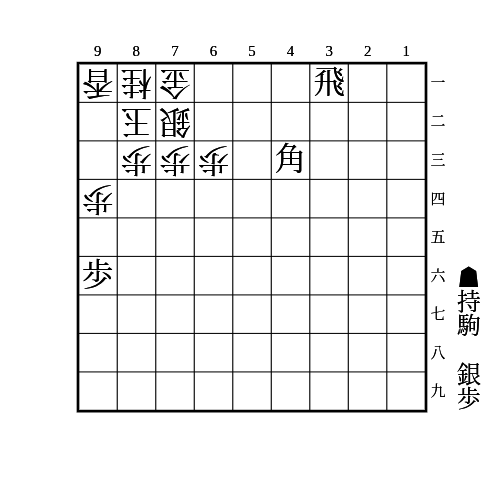
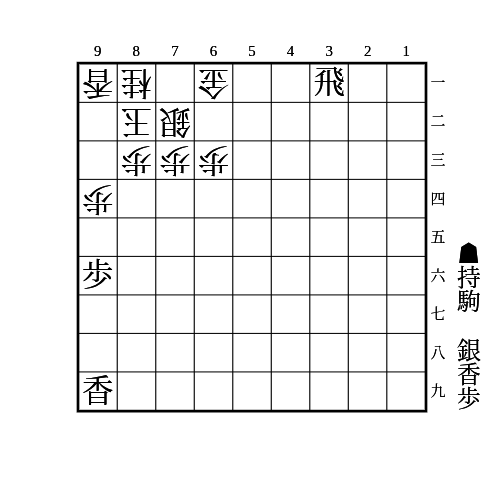
update

diff --git a/知識/攻め/寄せ/矢倉.md b/知識/攻め/寄せ/矢倉.md
@@ -112,3 +112,53 @@
     <p>▲31銀△11玉▲33歩</p>
     <p>2手目△同金は▲33金△11玉▲31銀不成</p>
 </details>
+
+---
+
+(7)
+
+![](./resources/矢倉_7.png)
+
+<details>
+    <summary>解答</summary>
+    <p>▲19香</p>
+    <p>△42銀と△24銀以外は詰む<br/>△24銀は▲同歩で詰めろ継続</p>
+</details>
+
+---
+
+(8)
+
+![](./resources/矢倉_8.png)
+
+<details>
+    <summary>解答</summary>
+    <p>▲31銀△12玉▲42銀成△22金▲32成銀</p>
+    <p>▲23飛成があるため銀が取れない</p>
+</details>
+
+---
+
+(9)
+
+(7)の派生
+
+![](./resources/矢倉_9.png)
+
+<details>
+    <summary>解答</summary>
+    <p>▲13歩△11歩▲19香</p>
+    <p>2手目△同桂は▲12歩△同玉▲14歩△22銀▲19香</p>
+    <p>初手▲14歩は△12歩▲19香△11香で受かるので注意</p>
+</details>
+
+---
+
+(10)
+
+![](./resources/矢倉_10.png)
+
+<details>
+    <summary>解答</summary>
+    <p>▲14歩△同歩▲12歩△同香▲11銀△同玉▲32飛成</p>
+</details>

diff --git a/知識/攻め/寄せ/美濃.md b/知識/攻め/寄せ/美濃.md
@@ -68,9 +68,7 @@
 
 <details>
     <summary>解答</summary>
-    <p>▲95歩</p>
-    <p>△同歩なら▲92歩△同香▲91銀△同玉▲71飛成</p>
-    <p>△61香などで横を受けてきたら▲53馬で71の金を狙い続ければ良い</p>
+    <p>▲95歩△同歩▲62香△71金▲92歩△同香▲91銀△71飛成</p>
 </details>
 
 ---
@@ -325,4 +323,27 @@
     <p>▲32飛成</p>
     <p>▲72竜△82合駒▲同竜△同玉▲71銀△92玉▲82金までの詰めろ</p>
     <p>△82金は▲71とで良い</p>
+</details>
+
+---
+
+(15)
+
+![](./resources/美濃_15.png)
+
+<details>
+    <summary>解答</summary>
+    <p>▲61飛成△同銀▲71角△82合駒▲95香△94歩▲同香△同玉▲82角成</p>
+    <p>桂がなくても玉を中段に出すことはできるが、あったほうが詰みまで見やすい</p>
+</details>
+
+---
+
+(16)
+
+![](./resources/美濃_16.png)
+
+<details>
+    <summary>解答</summary>
+    <p>▲41角〜▲86桂〜▲74桂</p>
 </details>

diff --git a/知識/攻め/必至/一般.md b/知識/攻め/必至/一般.md
@@ -149,7 +149,7 @@
 
 ▲32角成を防ぐために駒を足しても▲32金で詰む
 
-△同歩は▲23金△31玉▲32金
+桂を取ったら▲23金△31玉▲32金
 
 △14歩は▲同歩△同香▲12金△31玉▲32桂成
 
@@ -163,3 +163,26 @@
 
 25に歩があれば△24歩に▲同歩とできるので34が埋まっていなくても良い  
 その場合、△22玉は▲31角成△12玉▲22金△13玉▲32金△12玉▲22馬の即詰みになる
+
+## 金頭桂
+
+(1)
+
+![](./resources/金頭桂_1.png)
+
+<details>
+    <summary>解答</summary>
+    <p>▲25桂</p>
+    <p>△32金は▲13銀△21玉▲33桂不成△同金▲22金で詰み</p>
+    <p>相手が銀や角を持っているときは24に打たれると受かる</p>
+</details>
+
+## 退路封鎖
+
+![](./resources/退路封鎖_A.png)
+
+銀を取ったら▲32竜〜▲23金
+
+▲32銀は△12銀で受かる
+
+▲25銀や金は▲12金で受かる

diff --git a/知識/攻め/詰み筋/一般.md b/知識/攻め/詰み筋/一般.md
@@ -227,6 +227,21 @@
     <p>最長手順は歩頭桂でないが、▲12香に△同玉だと▲24桂と歩頭桂から詰む</p>
 </details>
 
+---
+
+(3)
+
+![](./resources/歩頭桂_3.png)
+
+<details>
+    <summary>解答</summary>
+    <p>▲93金</p>
+    <p>△同桂なら▲74桂△同歩▲73金△81玉▲72竜で詰み</p>
+    <p>△同香なら▲92金△同玉▲72竜△82金▲84桂△同歩▲83金△91玉▲82金で詰み</p>
+    <p>△同玉なら▲72竜で即詰みはないが▲85桂が受けにくい</p>
+    <p>一間竜と焦点の捨て駒も絡む</p>
+</details>
+
 ## 邪魔駒消去
 
 (1)

diff --git a/知識/攻防/詰めろ逃れの詰めろ.md b/知識/攻防/詰めろ逃れの詰めろ.md
@@ -12,3 +12,16 @@
     <p>敵の打ちたいところに打てで△25桂を消しつつ、▲23香成からの詰めろ<br/>△31桂とされても▲34金で良い</p>
     <p>▲25金は△48竜で負け</p>
 </details>
+
+---
+
+(2)
+
+![](./resources/詰めろ逃れの詰めろ_2.png)
+
+<details>
+    <summary>解答</summary>
+    <p>▲35角</p>
+    <p>敵の打ちたいところに打てで△35金を消しつつ、▲13銀からの詰めろ</p>
+    <p>△同歩ならこちらの詰めろが外れて▲32金の必至が間に合う</p>
+</details>

diff --git a/知識/攻め/寄せ/金無双.md b/知識/攻め/寄せ/金無双.md
@@ -223,3 +223,17 @@
     <p>△同玉なら▲71銀△92玉▲62銀成△同金▲82歩</p>
     <p>他の受けは桂を取れる</p>
 </details>
+
+---
+
+(11)
+
+![](./resources/金無双_11.png)
+
+<details>
+    <summary>解答</summary>
+    <p>▲33香</p>
+    <p>△同桂なら▲11竜<br/>次に▲21角からの詰めろ</p>
+    <p>△同玉なら▲21竜<br/>次に▲22角からの詰めろ</p>
+    <p>△同金なら▲41角〜▲52竜</p>
+</details>

diff --git a/大局観/指針.md b/大局観/指針.md
@@ -46,6 +46,9 @@
 戦力を分散させて局所的な数的有利を作らせないようにする。
 角を使うと広い戦場にしやすい。
 
+ただし上の指針のように、紛れを求めて複数箇所で駒をぶつけるのは有効なので注意。  
+その場合は持ち駒を使わないことで戦力を分散させないようにする。
+
 ---
 
 駒損しているときは攻める。  

diff --git a/知識/攻め/寄せ/舟囲い.md b/知識/攻め/寄せ/舟囲い.md
@@ -33,6 +33,7 @@
     <p>放置なら▲11角成〜▲21馬△同玉▲41飛成</p>
     <p>相手が角を持っている場合は△33角で受けられる</p>
     <p>角以外でも22に打ち込むのが有効</p>
+    <p>桂を持っている場合は▲24桂△同歩▲23角もある<br/>こちらは相手が角を持っていても使える</p>
 </details>
 
 

diff --git a/知識/定跡まわり/相振り飛車.md b/知識/定跡まわり/相振り飛車.md
@@ -23,3 +23,14 @@
     <p>△75飛</p>
     <p>▲86角なら△85飛</p>
 </details>
+
+---
+
+(3)
+
+![](./resources/相振り飛車_3.png)
+
+<details>
+    <summary>解答</summary>
+    <p>▲83歩△同銀▲84銀△同銀▲83歩△同玉▲84飛</p>
+</details>

diff --git a/知識/攻め/必至/金無双.md b/知識/攻め/必至/金無双.md
@@ -1,0 +1,5 @@
+# 金無双
+
+![](./resources/金無双_A.png)
+
+93の角を取っても取らなくても▲71金からの詰みが受からない
